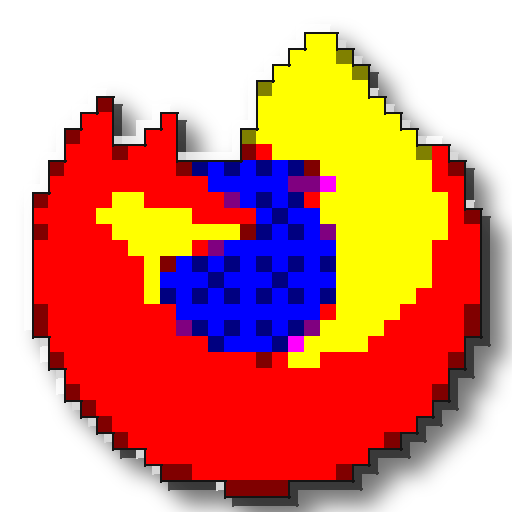
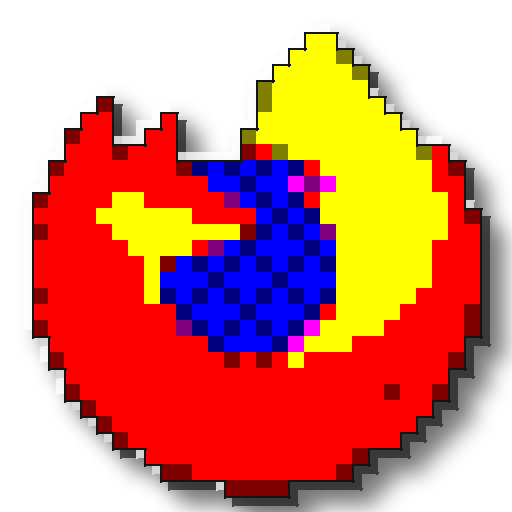
Decouple hue and brightness in win95 dithering: hue now comes from the unperturbed pixel, only brightness is dithered. Lets spread go from 60 to 100 with no wrong-hue-family artifacts, for denser texture

diff --git a/chunkify95.py b/chunkify95.py
@@ -54,7 +54,7 @@ WIN95_HUE_FAMILIES = {
 }
 
 
-def nearest_win95_color(r, g, b, sat_threshold=0.22):
+def nearest_win95_color(r, g, b, t=0, sat_threshold=0.22):
     """Hue-aware nearest-color lookup for the fixed win95 palette: pixels
     below the saturation threshold match among black/gray/silver/white by
     brightness only; everything else matches to the closest hue family
@@ -70,8 +70,20 @@ def nearest_win95_color(r, g, b, sat_threshold=0.22):
     matched gray/silver by brightness, showing up as stray gray specks
     inside otherwise-white regions. 0.22 routes those through to their
     actual (faint) hue instead.
+
+    t is the ordered-dither threshold offset (see ordered_dither), applied
+    here to brightness only, after hue and saturation are computed from the
+    true, unperturbed r/g/b. Earlier this added t to r/g/b uniformly before
+    computing hue at all, which meant a strong enough perturbation could
+    shift a pixel's hue across a family boundary entirely, a stray cyan
+    speck showing up in an otherwise solid blue circle. Hue and grayness are
+    stable, real properties of the source pixel; only the dark/bright
+    brightness choice should be dithered, so only that step sees t. This is
+    what let the default dither spread go up (see pixelate_and_quantize)
+    without reintroducing wrong-hue-family noise.
     """
     h, s, v = colorsys.rgb_to_hsv(r / 255, g / 255, b / 255)
+    v = max(0.0, min(1.0, v + t / 255))
     if s < sat_threshold:
         return min(WIN95_ACHROMATIC, key=lambda c: abs(colorsys.rgb_to_hsv(*(x / 255 for x in c))[2] - v))
 
@@ -103,8 +115,11 @@ def build_adaptive_palette(img_rgb, colors):
     return [tuple(flat[i:i + 3]) for i in range(0, len(flat), 3)]
 
 
-def _nearest_rgb(r, g, b, palette_colors):
-    return min(palette_colors, key=lambda c: (c[0] - r) ** 2 + (c[1] - g) ** 2 + (c[2] - b) ** 2)
+def _nearest_rgb(r, g, b, t, palette_colors):
+    r2 = max(0, min(255, r + t))
+    g2 = max(0, min(255, g + t))
+    b2 = max(0, min(255, b + t))
+    return min(palette_colors, key=lambda c: (c[0] - r2) ** 2 + (c[1] - g2) ** 2 + (c[2] - b2) ** 2)
 
 
 def ordered_dither(img_rgb, palette_colors, spread=40, match_fn=None):
@@ -117,12 +132,14 @@ def ordered_dither(img_rgb, palette_colors, spread=40, match_fn=None):
     real Win9x icon art dithers shading by hand. spread=0 disables the
     perturbation entirely (plain nearest-color, no dither).
 
-    match_fn(r, g, b) -> (r, g, b) overrides the default plain-Euclidean
-    nearest-color lookup; pass nearest_win95_color for palette="win95" (see
-    its docstring for why the default distance metric picks gray far too
-    often). Left as plain Euclidean for the adaptive palette, where it's
-    fine: an adaptive palette is built from the image's own colors, so nothing
-    in it competes with gray for pixels that clearly aren't gray.
+    match_fn(r, g, b, t) -> (r, g, b) overrides the default plain-Euclidean
+    nearest-color lookup, receiving the *unperturbed* source pixel plus the
+    raw dither threshold t separately rather than pre-perturbed RGB, so a
+    hue-aware matcher can dither brightness without letting hue drift. Pass
+    nearest_win95_color for palette="win95" (see its docstring). Left as
+    plain Euclidean for the adaptive palette, where it's fine: an adaptive
+    palette is built from the image's own colors, so nothing in it competes
+    with gray for pixels that clearly aren't gray.
 
     PIL quirk found along the way: passing dither= directly to
     quantize(method=MEDIANCUT, ...) is silently ignored. Verified by
@@ -133,7 +150,7 @@ def ordered_dither(img_rgb, palette_colors, spread=40, match_fn=None):
     chaotic per-pixel noise rather than the sparse, deliberate dithering
     real icons have. This hand-rolled ordered dither replaced it entirely.
     """
-    match_fn = match_fn or (lambda r, g, b: _nearest_rgb(r, g, b, palette_colors))
+    match_fn = match_fn or (lambda r, g, b, t: _nearest_rgb(r, g, b, t, palette_colors))
     w, h = img_rgb.size
     px = img_rgb.load()
     out = Image.new("RGB", (w, h))
@@ -143,10 +160,7 @@ def ordered_dither(img_rgb, palette_colors, spread=40, match_fn=None):
         for x in range(w):
             r, g, b = px[x, y]
             t = (BAYER_4X4[y % n][x % n] / (n * n) - 0.5) * spread
-            r2 = max(0, min(255, r + t))
-            g2 = max(0, min(255, g + t))
-            b2 = max(0, min(255, b + t))
-            out_px[x, y] = match_fn(r2, g2, b2)
+            out_px[x, y] = match_fn(r, g, b, t)
     return out
 
 
@@ -168,13 +182,15 @@ def pixelate_and_quantize(img, grid, colors, palette="adaptive", dither_spread=N
     function's docstring).
 
     dither_spread=None picks a palette-appropriate default: 40 for
-    adaptive, 60 for win95. win95 needs more: its hue-family matching only
+    adaptive, 100 for win95. win95 needs more: its hue-family matching only
     has two brightness levels (dark/bright) to dither between per hue, a
     coarser decision than an adaptive palette's finer-grained colors, so a
     flat-shaded region needs a stronger perturbation before the dither
-    threshold actually pushes any pixels across that boundary. Below 60 a
-    lot of flat regions come out as one solid color with no texture at all
-    instead of the checkerboard shading real icons use.
+    threshold actually pushes any pixels across that boundary. A spread
+    this strong would cause real problems for plain-RGB matching (colors
+    jumping to unrelated hues), but nearest_win95_color only ever dithers
+    brightness, hue comes from the unperturbed pixel, so pushing spread
+    this far is safe and just means denser, more visible checkering.
     """
     w, h = img.size
     size = max(w, h)
@@ -187,7 +203,7 @@ def pixelate_and_quantize(img, grid, colors, palette="adaptive", dither_spread=N
 
     small = square.convert("RGB").resize((grid, grid), Image.BOX)
     if palette == "win95":
-        spread = dither_spread if dither_spread is not None else 60
+        spread = dither_spread if dither_spread is not None else 100
         quantized_rgb = ordered_dither(small, WIN95_PALETTE, spread=spread, match_fn=nearest_win95_color)
     else:
         spread = dither_spread if dither_spread is not None else 40
@@ -307,7 +323,7 @@ def main():
     p.add_argument("--palette", choices=["adaptive", "win95"], default="adaptive",
                     help="adaptive (default): best-fit palette per image, keeps real color fidelity. win95: real fixed 16-color VGA palette, more period-accurate but loses hues with no close match.")
     p.add_argument("--dither-spread", type=int, default=None,
-                    help="ordered-dither strength, 0 disables (default: 40 for adaptive, 60 for win95)")
+                    help="ordered-dither strength, 0 disables (default: 40 for adaptive, 100 for win95)")
     p.add_argument("--bevel", dest="bevel", action="store_true", default=True)
     p.add_argument("--no-bevel", dest="bevel", action="store_false")
     p.add_argument("--shadow", dest="shadow", action="store_true", default=True)

diff --git a/README.md b/README.md
@@ -132,9 +132,20 @@ a same-brightness region around it picks the exact same variant, since
 there's no gradient pushing any of it toward the dark half. The dither
 perturbation needs to be strong enough to actually push some pixels across
 that dark/bright boundary, and the default 40 (tuned against the finer-
-grained adaptive palette) usually isn't. `--dither-spread` defaults to 60
-specifically for `--palette win95` to compensate, which is what the
-checkerboard texture in the sample below actually comes from.
+grained adaptive palette) usually isn't.
+
+The obvious fix, just push the spread way up, caused a new problem at
+first: the perturbation was being added to r/g/b before hue was even
+computed, so a strong enough push could shift a pixel's hue across a
+family boundary entirely, a stray cyan speck showing up in an otherwise
+solid blue circle. `nearest_win95_color` now computes hue and saturation
+from the true, unperturbed pixel, and only perturbs the brightness used
+for the dark/bright decision. Hue is a stable, real property of the
+source color; only lightness should be up for dithering. With that fixed,
+spread can go much higher with no risk of wrong-hue noise, so
+`--dither-spread` defaults to 100 specifically for `--palette win95`,
+which is what the dense checkerboard texture in the sample below actually
+comes from.
 
 The default `adaptive` palette doesn't need either fix: it's built from the
 image's own colors, so nothing in it is competing with gray for pixels that
